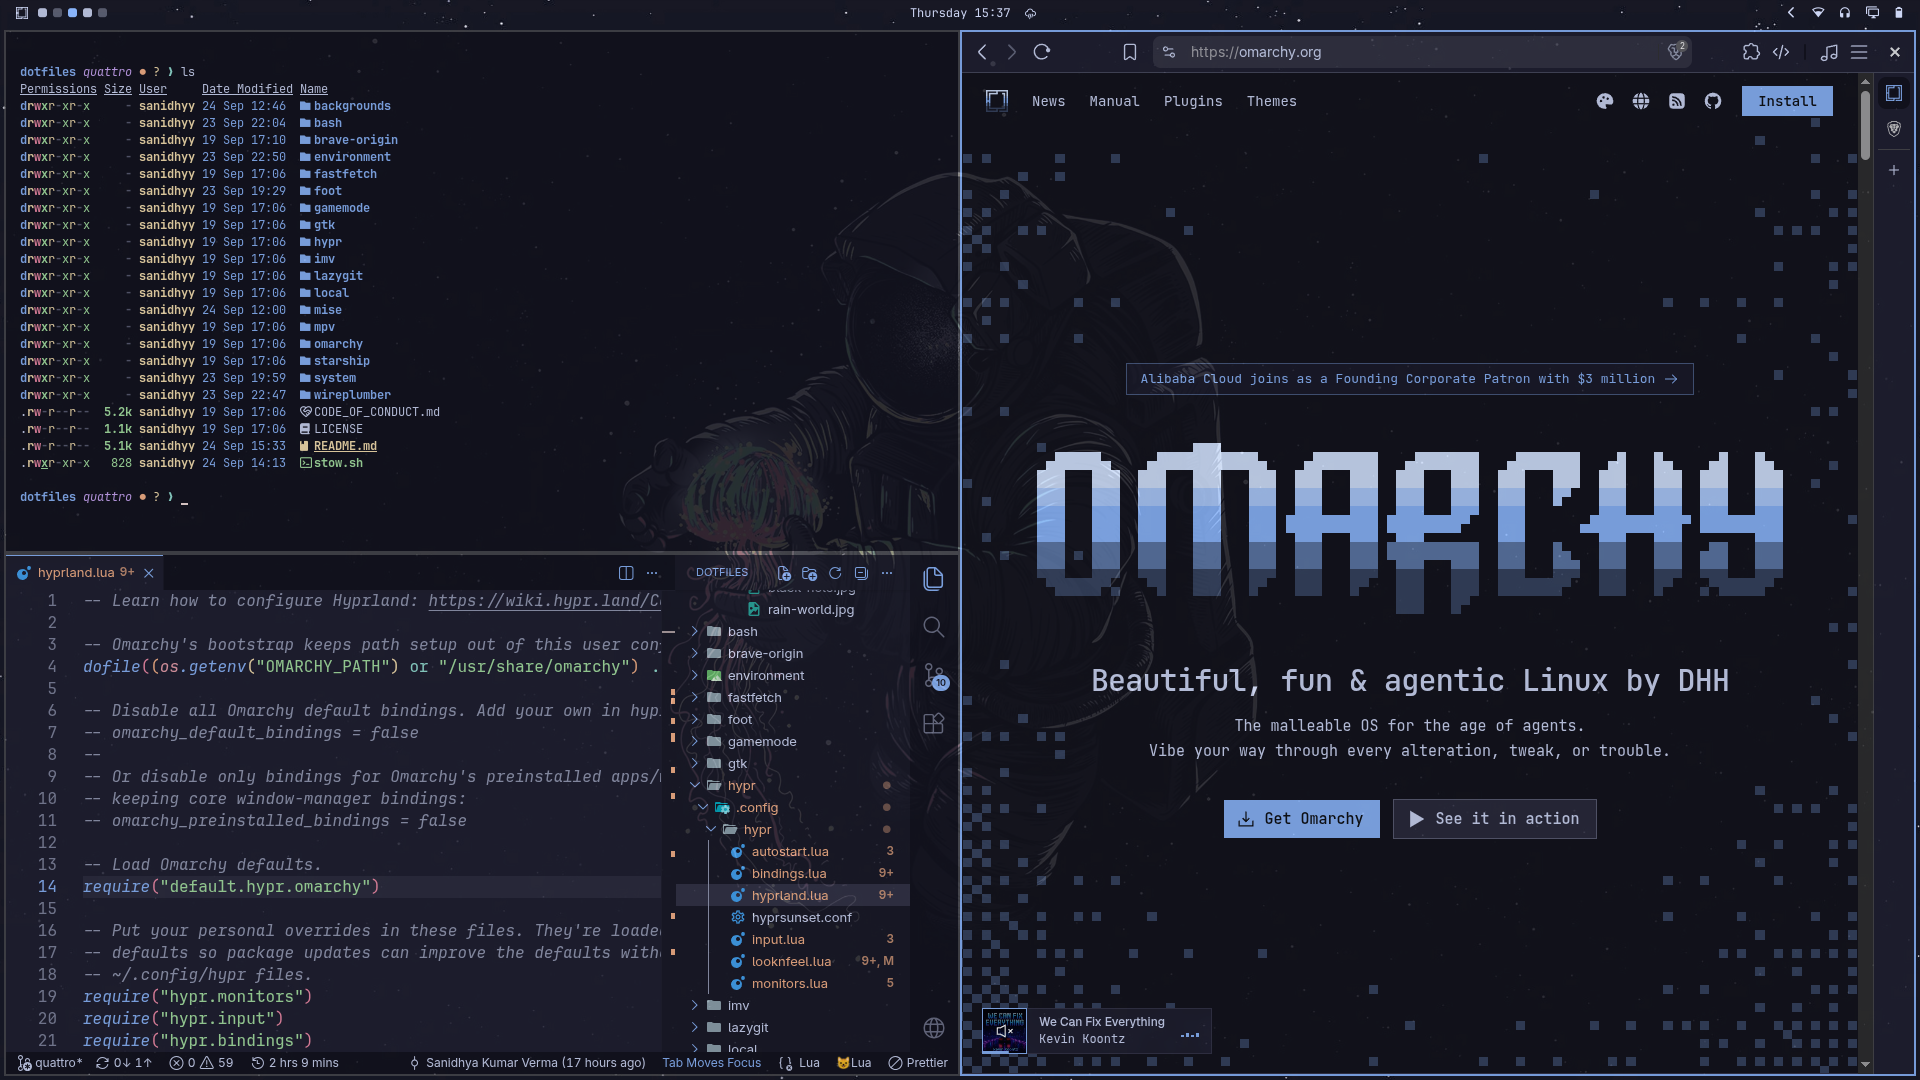
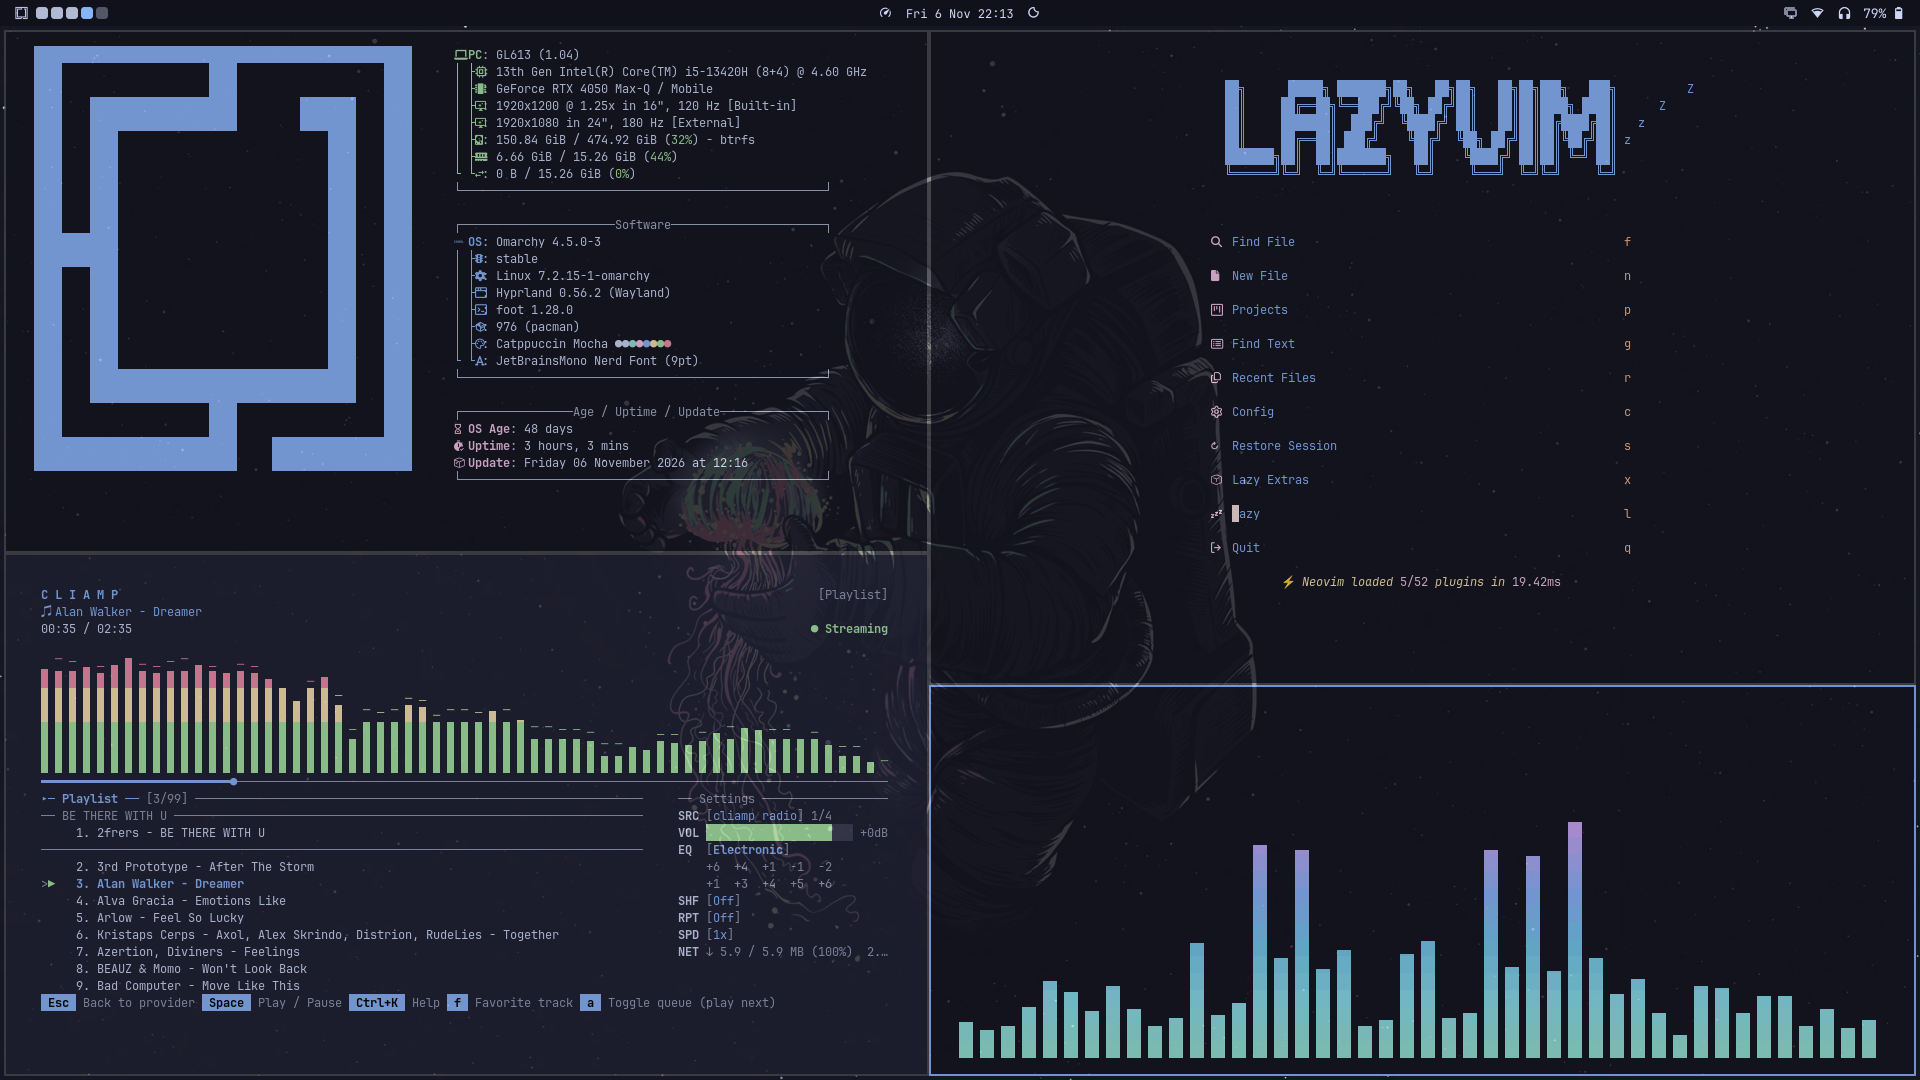
chore(docs): add new previews

diff --git a/README.md b/README.md
@@ -22,13 +22,13 @@ My Personal dotfiles and configuration scripts based on [Catppuccin Mocha](https
 
 ## :camera_flash: Preview
 
-![Btop · LazyVim · Nautilus](/.github/images/desktop.png "Btop · LazyVim · Nautilus")
+![Quickshell · VSCode · Foot · Brave](/.github/images/desktop.png "Quickshell · VSCode · Foot · Brave")
 
-![Foot · Chromium · VSCode](/.github/images/desktop-2.png "Foot · Chromium · VSCode")
+![Fastfetch · Cliamp · Lazyvim · Cava](/.github/images/desktop-2.png "Fastfetch · Cliamp · Lazyvim · Cava")
+
+![Lazyvim · Foot · Btop · Nautilus](/.github/images/desktop-3.png "Lazyvim · Foot · Btop · Nautilus")
 
 ![Lock Screen Preview](/.github/images/lock-screen.png "Lock Screen Preview")
-
-![Unlock Preview](/.github/images/unlock.png "Unlock Preview")
 
 ## :package: Using Stow
 
